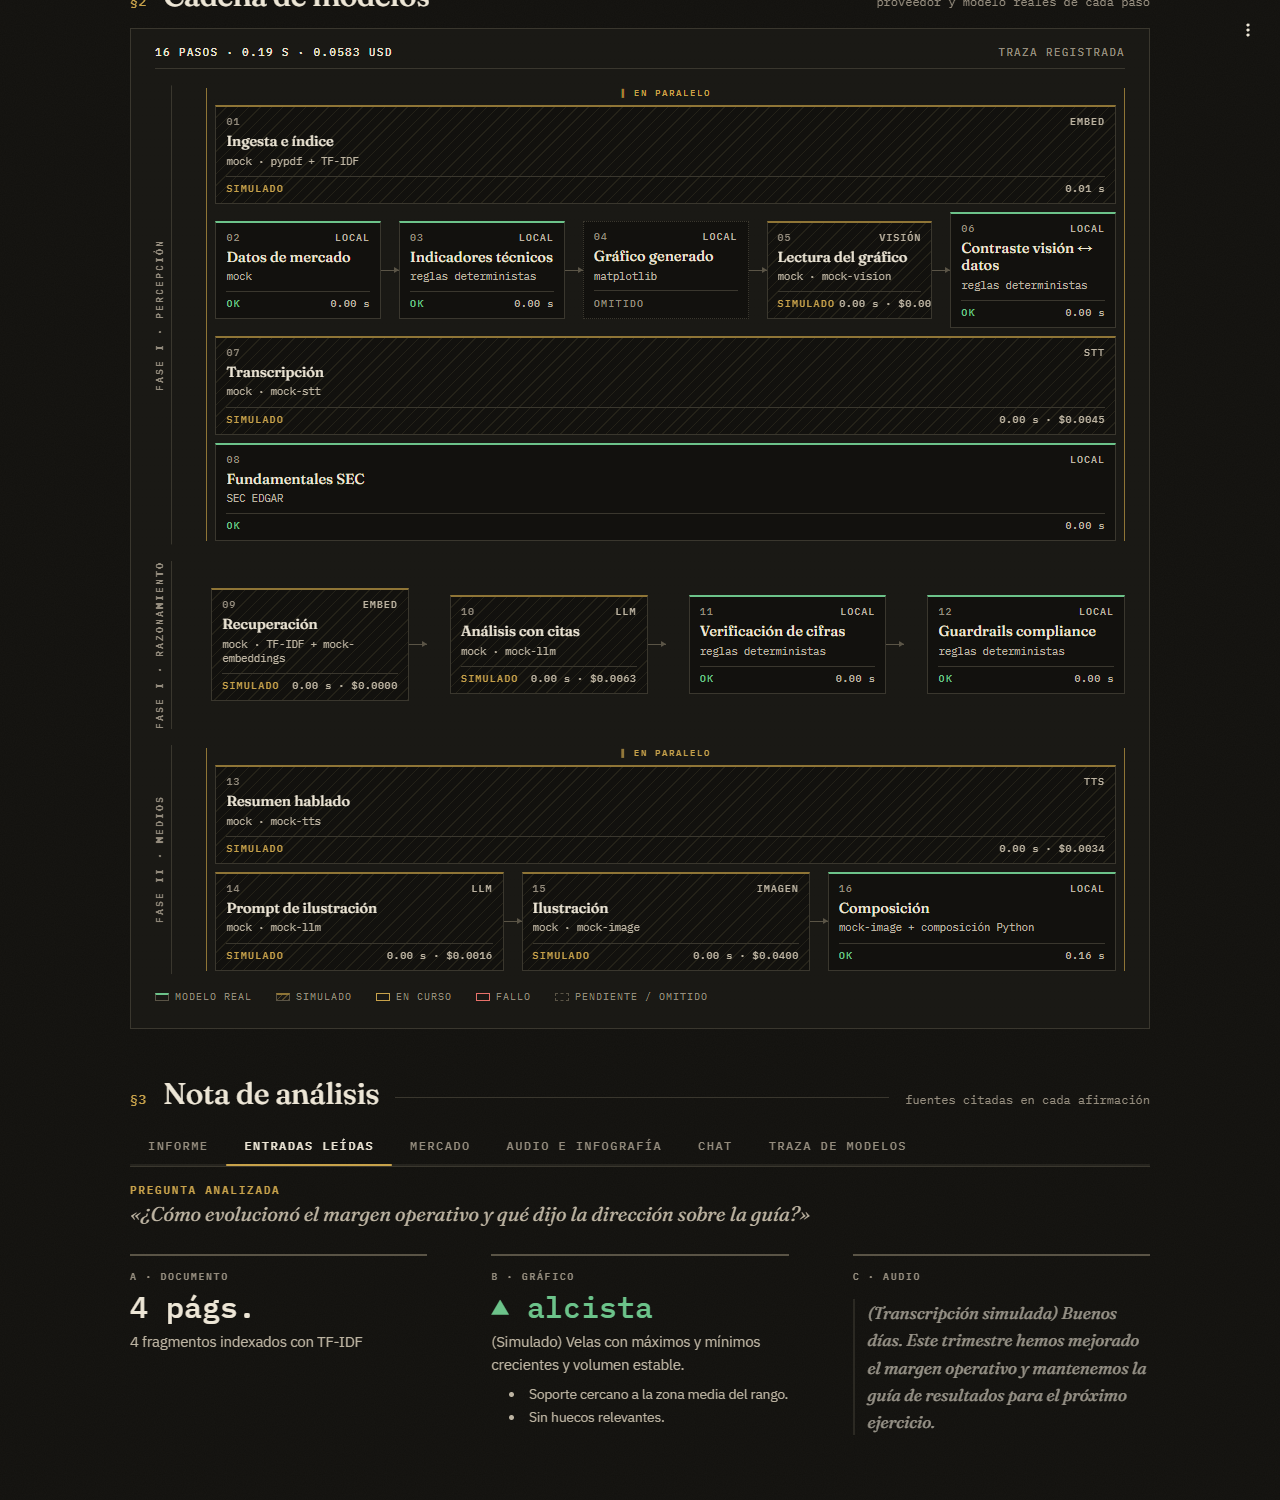
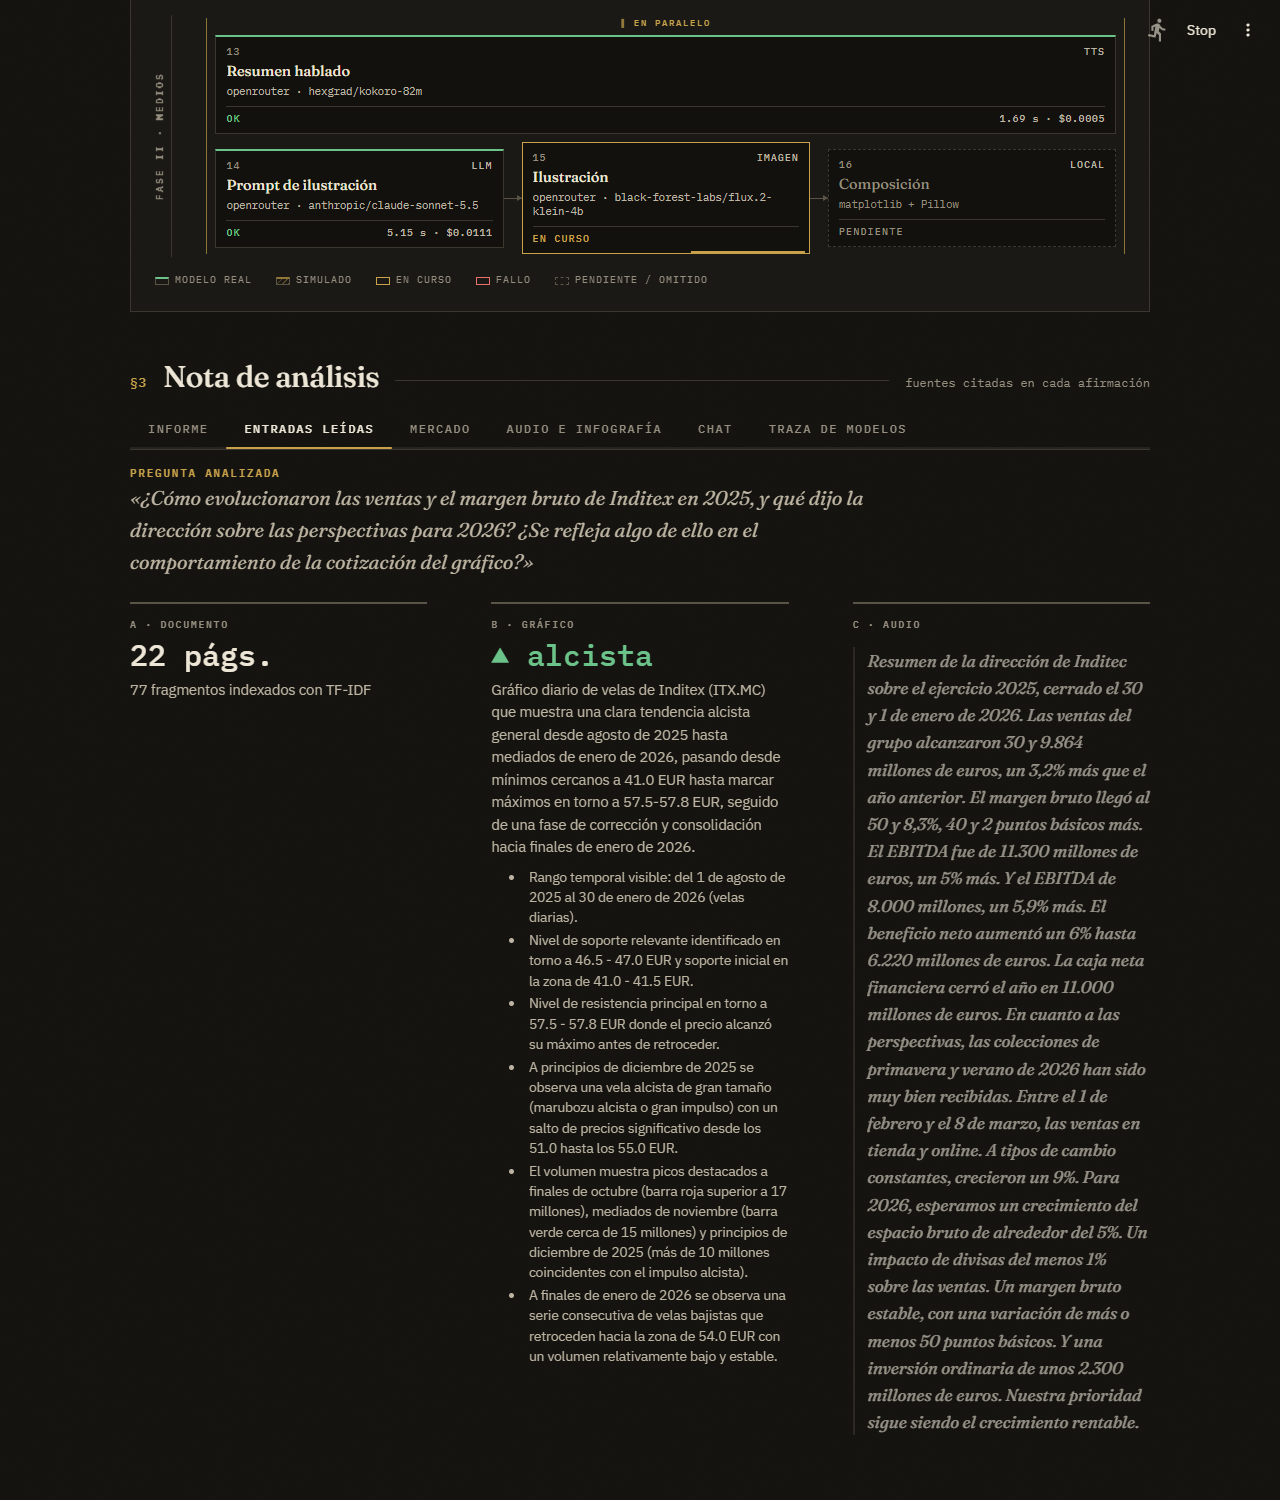
feat: capturas reales, reintentos en embeddings ante 429 y cifras literales largas legibles

diff --git a/src/finlens/providers/openrouter_provider.py b/src/finlens/providers/openrouter_provider.py
@@ -30,6 +30,7 @@ from finlens.providers.openai_provider import MAX_AUDIO_BYTES, embed_in_batches,
 BASE_URL = "https://openrouter.ai/api/v1"
 log = logging.getLogger("finlens.stt")
 TIMEOUT_S = 120.0
+EMBEDDINGS_MAX_RETRIES = 4
 MIN_DURATION_RATIO = 0.8  # duración informada / real por debajo de la cual se considera truncada
 MIN_CHARS_PER_SECOND = 4.0
 MIN_SECONDS_FOR_CHARS_CHECK = 5.0  # en clips muy cortos el criterio de caracteres no es fiable
@@ -334,7 +335,9 @@ class OpenRouterEmbeddings:
 
     def __init__(self, api_key: str, model: str, client: Any = None) -> None:
         self.model = model
-        self._client = make_client(api_key, client)
+        # Idempotente y casi gratis (≈0,0002 USD): más reintentos con espera exponencial ante 429 transitorios
+        # del proveedor upstream, que si no degradan la recuperación a solo TF-IDF.
+        self._client = make_client(api_key, client, max_retries=EMBEDDINGS_MAX_RETRIES)
 
     def embed(
         self, texts: Sequence[str], kind: Literal["query", "document"] = "document"

diff --git a/src/finlens/ui/components.py b/src/finlens/ui/components.py
@@ -159,13 +159,16 @@ def pair_checks(figures: Sequence[KeyFigure], checks: Sequence[Any]) -> list[Any
     return salida
 
 
+LONG_FIGURE_CHARS = 14  # cifras literales largas («stable gross margin (+/-50 bps)») en cuerpo menor
+
+
 def figures_html(figures: Sequence[KeyFigure], checks: Sequence[Any]) -> str:
     celdas = []
     for f, check in zip(figures, pair_checks(figures, checks), strict=True):
         periodo = f'<div class="fl-fig__p">{esc(f.period)}</div>' if f.period else ""
         celdas.append(
             f'<div class="fl-fig"><div class="fl-fig__n">{esc(f.name)}</div>'
-            f'<div class="fl-fig__v">{esc(f.value)}</div>{periodo}'
+            f'<div class="fl-fig__v{" is-long" if len(f.value) > LONG_FIGURE_CHARS else ""}">{esc(f.value)}</div>{periodo}'
             f'<div class="fl-fig__foot">{stamp(check)}{chips(f.citations)}</div></div>'
         )
     return f'<div class="fl-figs">{"".join(celdas)}</div>'

diff --git a/src/finlens/ui/theme.py b/src/finlens/ui/theme.py
@@ -276,6 +276,7 @@ a {{ color: var(--brass); }}
 .fl-fig__n {{ font:600 11px/1.3 var(--f-mono); letter-spacing:.14em; text-transform:uppercase; color:var(--paper-dim); }}
 .fl-fig__v {{ font:500 clamp(30px,4vw,42px)/1.05 var(--f-mono); color:var(--paper); margin:var(--s2) 0 6px;
   font-variant-numeric:tabular-nums; letter-spacing:-.03em; overflow-wrap:anywhere; }}
+.fl-fig__v.is-long {{ font-size:clamp(17px,2vw,22px); line-height:1.25; letter-spacing:0; }}
 .fl-fig__p {{ font:12px/1.4 var(--f-mono); color:var(--muted); }}
 .fl-fig__foot {{ display:flex; gap:var(--s2); align-items:center; flex-wrap:wrap; margin-top:var(--s3); }}
 

diff --git a/README.md b/README.md
@@ -241,13 +241,19 @@ capacidad, modo demo, degradación elegante, compliance por diseño, CI/CD a AWS
 
 ## 9. Capturas
 
-| Nota de análisis | Traza de modelos |
-|---|---|
-| ![Nota con cifras verificadas](docs/img/informe.png) | ![Traza de modelos](docs/img/traza.png) |
+Hechas con **APIs reales** (OpenRouter, Yahoo, SEC) sobre el caso de `samples/01_inditex` más el ticker `ITX.MC`.
 
-| Entradas leídas | Audio e infografía |
+| Nota de análisis: 11/11 cifras verificadas | La IA vio · los datos dicen |
 |---|---|
-| ![Entradas leídas](docs/img/entradas.png) | ![Audio e infografía](docs/img/medios.png) |
+| ![Nota con cifras verificadas](docs/img/informe.png) | ![Contraste visión-datos](docs/img/mercado.png) |
+
+| Audio e infografía (cifras dibujadas por Python) | Traza de modelos |
+|---|---|
+| ![Audio e infografía](docs/img/medios.png) | ![Traza de modelos](docs/img/traza.png) |
+
+| Cadena de modelos en vivo | Entradas leídas |
+|---|---|
+| ![Cadena de modelos](docs/img/cerebro.png) | ![Entradas leídas](docs/img/entradas.png) |
 
 ## 10. Limitaciones y hoja de ruta
 
